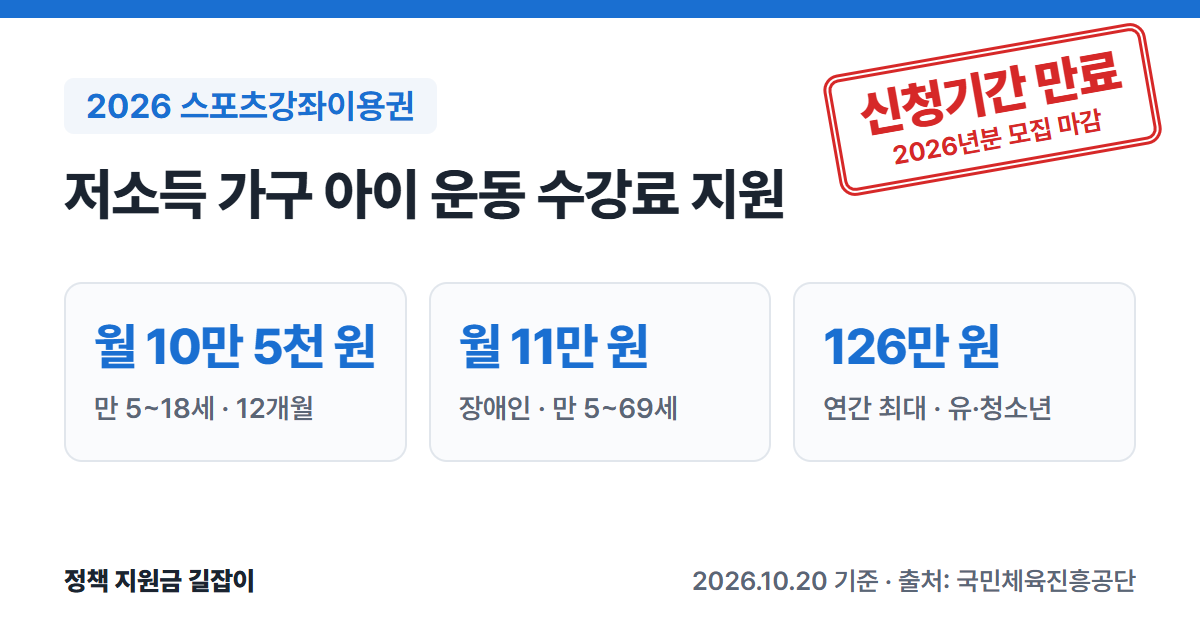
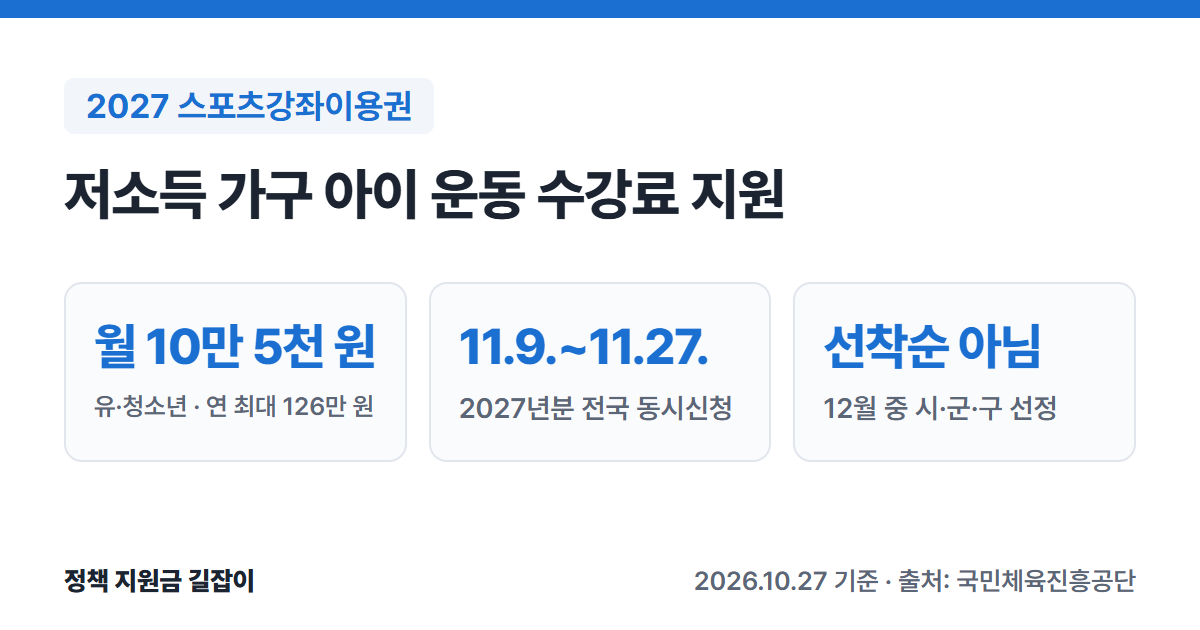
스포츠강좌이용권 글 2027년 전국 동시신청(11.9.~11.27.) 기준으로 갱신(장애인 이용권·중복수혜 제한·자동신청 안내, 독립 검토 반영), 만료 도장 제거, 쓰레드 원고 2개

diff --git a/_tools/card.html b/_tools/card.html
@@ -214,11 +214,10 @@ const cards = {
     foot: "2026.10.16 기준 · 출처: 주택도시기금"
   },
   "sports-voucher-2026": {
-    expired: "2026년분 모집",
-    label: "2026 스포츠강좌이용권",
+    label: "2027 스포츠강좌이용권",
     title: "저소득 가구 아이 운동 수강료 지원",
-    stats: [["월 10만 5천 원", "만 5~18세 · 12개월"], ["월 11만 원", "장애인 · 만 5~69세"], ["126만 원", "연간 최대 · 유·청소년"]],
-    foot: "2026.10.20 기준 · 출처: 국민체육진흥공단"
+    stats: [["월 10만 5천 원", "유·청소년 · 연 최대 126만 원"], ["11.9.~11.27.", "2027년분 전국 동시신청"], ["선착순 아님", "12월 중 시·군·구 선정"]],
+    foot: "2026.10.27 기준 · 출처: 국민체육진흥공단"
   },
   "youth-tomorrow-savings-2026": {
     expired: "2026년 모집",

diff --git a/_posts/2026-10-20-sports-voucher-2026.md b/_posts/2026-10-20-sports-voucher-2026.md
@@ -1,23 +1,23 @@
 ---
 layout: post
-title: "2026 스포츠강좌이용권 총정리: 저소득 가구 아이 운동 수강료 월 10만 5천 원 (대상·신청 시기·장애인 이용권)"
+title: "2027 스포츠강좌이용권 신청: 11월 9~27일, 저소득 가구 아이 운동 수강료 월 10만 5천 원 (대상·신청 방법·장애인 이용권)"
 date: 2026-10-20 23:20:00 +0900
-deadline: 2025-11-28
-deadline_note: "2026년분 모집"
+deadline: 2026-11-27
+deadline_note: "2027년분 전국 동시신청"
 topic: 생활비
 image: /assets/images/cards/sports-voucher-2026.png
 ---
 
 **스포츠강좌이용권**은 저소득 가구의 만 5~18세 아이가 운동 강좌를 배울 수 있도록 수강료를 **매달 최대 10만 5천 원** 지원하는 카드예요.
 장애인을 위한 **장애인스포츠강좌이용권**(월 최대 11만 원)도 따로 있어요.
-국민체육진흥공단 공식 안내를 바탕으로 대상, 금액, 신청 시기, 주의할 점을 정리했어요.
+**2027년 이용권은 2026년 11월 9일(월)~27일(금)에 전국 동시로 신청**받아요. 국민체육진흥공단 공식 안내를 바탕으로 대상, 금액, 신청 방법, 주의할 점을 정리했어요.
 
-![2026 스포츠강좌이용권 요약(신청기간 만료, 2026년분 모집 마감): 만 5~18세 저소득 가구 유·청소년 월 최대 10만 5천 원, 장애인 월 최대 11만 원, 연간 12개월, 유·청소년 연간 최대 126만 원](/assets/images/cards/sports-voucher-2026.png){: .summary-card}
+![2027 스포츠강좌이용권 요약: 만 5~18세 저소득 가구 유·청소년 월 최대 10만 5천 원(연 최대 126만 원), 2027년분 전국 동시신청 2026년 11월 9일~27일, 선착순 아님, 12월 중 시·군·구 선정](/assets/images/cards/sports-voucher-2026.png){: .summary-card}
 
 > 💡 **핵심 요약**
-> - **만 5~18세** 수급자·차상위·한부모 가구 아이에게 운동 수강료를 **월 10만 5천 원**까지, **1년 12개월** 지원해요(최대 126만 원). (출처①②)
-> - 장애인은 **만 5~69세**이면 **월 11만 원**까지 지원받아요(최대 132만 원). (출처②)
-> - 2026년 이용권은 **2025년 11월 10~28일**에 전국 동시로 신청받았어요. (출처②) 공단은 다음 해 신청 일정을 **전년도 10월 말경** 홈페이지에서 확인하라고 안내해요. (출처①)
+> - **만 5~18세** 수급자·차상위·한부모 가구 아이에게 운동 수강료를 **월 10만 5천 원**까지, **1년 12개월** 지원해요(최대 126만 원). 2027년에도 같아요. (출처①②⑤)
+> - **2027년 이용권 신청**: **2026년 11월 9일(월)~11월 27일(금) 23:59**, 선착순이 아니에요. (출처⑤)
+> - 장애인은 **만 5~69세**이면 **월 11만 원**까지 지원받아요(최대 132만 원). 신청 기간은 같아요. (출처⑥)
 
 > **출처 표시 방법**: 본문의 (출처①) 같은 표시는 글 끝 출처 목록의 번호와 같아요.
 
@@ -38,9 +38,9 @@ image: /assets/images/cards/sports-voucher-2026.png
 | 지원 금액 | 월 **10만 5천 원** · 월 **11만 원** |
 | 1년 최대 | **126만 원** (12개월) · **132만 원** (12개월) |
 | 형태 | 전용 체크카드 (신한카드) |
-| 신청 | 매년 전국 동시 신청 (2026년분: 2025.11.10.~11.28.) |
+| 신청 | 매년 전국 동시 신청 (2027년분: **2026.11.9.~11.27.**) |
 
-(출처①②③)
+(출처①②③⑤⑥)
 
 ---
 
@@ -48,18 +48,37 @@ image: /assets/images/cards/sports-voucher-2026.png
 
 ### 스포츠강좌이용권 (유·청소년)
 
-**만 5~18세**(2026년 이용권 기준 2008년 1월 1일~2021년 12월 31일 출생)이면서 아래 중 하나에 해당하면 돼요. (출처②)
+**만 5~18세**(2027년 이용권 기준 **2009년 1월 1일~2022년 12월 31일** 출생)이면서 아래 중 하나에 해당하면 돼요. (출처⑤)
 
 - 기초생활보장 **생계·의료·주거·교육급여 수급 가구**
 - **차상위계층**(자활근로, 장애, 본인부담경감, 차상위 확인서 발급)
 - 한부모가족지원법에 따른 **한부모가족**
 - 학교·성·가정 폭력 **피해자** 중 경찰청 추천을 받은 사람
 
-(출처①②)
+(출처①⑤)
 
 ### 장애인스포츠강좌이용권
 
-**만 5~69세**(2026년 이용권 기준 1957년 1월 1일~2021년 12월 31일 출생)의 **등록 장애인 본인**이 대상이에요. 저소득층을 우선 선정해요. (출처②)
+**만 5~69세**(2027년 이용권 기준 **1958년 1월 1일~2022년 12월 31일** 출생)의 **등록 장애인 본인**이 대상이에요. (출처⑥)
+
+선정은 시·군·구청에서 아래 순위로 해요. 저소득층이 아니어도 4·5순위로 신청할 수 있어요. (출처⑥)
+
+| 순위 | 기준 |
+|---|---|
+| 1순위 | 5~18세 수급자·차상위·법정 한부모 |
+| 2순위 | 19세 이상 수급자 |
+| 3순위 | 19세 이상 차상위·법정 한부모 |
+| 4순위 | 5~18세 비저소득층 |
+| 5순위 | 19세 이상 비저소득층 |
+
+### 함께 받을 수 없는 사업
+
+유·청소년 스포츠강좌이용권은 아래 사업과 **같은 해에 함께 받을 수 없어요.** 함께 받는 사실이 확인되면 하나만 골라야 하고, 이용권이 자동으로 중단되거나 지자체에서 연락이 갈 수 있어요. (출처⑦)
+
+- 스포츠꿈나무 특기장려금(옛 저소득층 체육인재 장학지원 사업)
+- 지역사회서비스 투자사업 중 (비만)아동 건강관리 사업
+
+장애인스포츠강좌이용권의 중복 제한은 장애인 이용권 홈페이지 공지를 확인하세요.
 
 ---
 
@@ -70,12 +89,13 @@ image: /assets/images/cards/sports-voucher-2026.png
 | 스포츠강좌이용권 | **10만 5천 원** · **126만 원** |
 | 장애인스포츠강좌이용권 | **11만 원** · **132만 원** |
 
-(출처②③, 2026년 기준)
+(출처②③⑤⑥)
 
 - 매달 지원 금액 **안에서** 스포츠 강좌 **수강료**를 결제해요. (출처①②)
-- 2026년 이용권은 **2026년 12월 10일까지** 결제할 수 있어요. (출처②)
+- 2026년 이용권은 **2026년 12월 10일까지**, 2027년 이용권은 **2027년 1월~12월 10일**에 결제할 수 있어요. (출처②⑤⑥)
+- 2027년 공지에는 **예산이 일찍 떨어지면 지원이 중단되거나 월 한도가 줄어들 수 있다**고 적혀 있어요. (출처⑤)
 
-> ⚠ **3개월 연속 사용하지 않으면** 지원이 자동으로 중단되고, 다음 해 선정 순위가 조정될 수 있어요. (출처②)
+> ⚠ **3개월 연속 사용하지 않으면** 지원이 자동으로 중단되고, 다음 해 선정 순위가 조정될 수 있어요. (출처②⑤)
 
 ---
 
@@ -91,7 +111,7 @@ image: /assets/images/cards/sports-voucher-2026.png
 | 3순위 | 누적 이용 **30개월 이상** + 기초생활수급자 |
 | 4순위 | 누적 이용 30개월 이상 + 차상위계층·법정 한부모 |
 
-(출처①)
+(출처①⑤, 누적 이용 기간은 최근 4년간 누적 결제 횟수 기준)
 
 처음 신청하거나 이용 기간이 짧은 아이가 먼저 뽑혀요. (출처①)
 
@@ -102,18 +122,19 @@ image: /assets/images/cards/sports-voucher-2026.png
 ### 신청 시기
 
 - 매년 **전국 동시 신청** 기간에 **다음 해** 이용권을 신청해요. **선착순이 아니에요.** (출처①②)
-- 2026년 이용권은 **2025년 11월 10일(월)~11월 28일(금) 23:59**에 신청받았고, 선정 기간은 **12월 중**이었어요. (출처②)
-- 다음 해 신청 일정은 **전년도 10월 말경** 이용권 홈페이지를 참고하라고 안내하고 있어요. (출처①)
+- **2027년 이용권**은 **2026년 11월 9일(월)~11월 27일(금) 23:59**에 신청받아요. 선정은 **12월 중** 각 시·군·구청에서 하고, 선정되면 문자로 알려 줘요. (출처⑤)
+- 참고로 2026년 이용권은 2025년 11월 10일~28일에 신청받았어요. (출처②)
 - 전국 동시 신청 뒤에도 시·군·구별로 자리가 남으면 **추가 신청**을 받기도 해요. (출처①)
 
-> 2026년 10월 26일 기준으로 2027년 이용권 **신청 기간 공지는 아직 없어요.** 공지가 나오면 이 글에 업데이트할게요.
-
-> ⚠ **지금 이용 중이라면 10월 31일까지 확인하세요.** 이용권 홈페이지에 **'자동신청 서비스'** 가 생겼어요. **2026년 10월 31일(토) 23:59까지** 동의하면 2027년 전국 동시신청 기간에 신청이 자동으로 진행돼요. 동의해도 이용권이 자동으로 갱신되는 것은 아니고 신청만 자동으로 돼요. 기간 안에 동의하지 않으면 2027년 전국 동시신청 기간에 따로 신청해야 해요. (출처④)
+> ⚠ **자동신청 동의는 10월 31일(토) 23:59까지예요.** 이용권 홈페이지에서 로그인 → 마이페이지 → 회원정보수정 → '자동신청 동의'에 체크하면 2027년 전국 동시신청 기간에 신청이 자동으로 진행돼요. (출처④)
+> - 신청만 자동이고 **선정은 따로** 해요. 동의한 분도 신청 기간에 마이페이지 '강좌이용권 신청현황'에서 신청 완료를 확인하고, 12월 중 선정 결과를 꼭 확인하세요. (출처④⑤)
+> - **외국인, 폴케어 대상자 등 서면 신청 대상자**는 자동신청에서 빠져요. 시·군·구청이나 주민센터에 직접 신청해야 해요. (출처④⑤)
+> - 기간 안에 동의하지 않았다면 11월 9일~27일에 따로 신청하면 돼요. (출처④)
 
 ### 신청 방법
 
 1. **온라인**: 스포츠강좌이용권 홈페이지(svoucher.kspo.or.kr) → [개인회원] → [개인 이용권 신청] → 거주 지역 선택 → 신청 (장애인은 dvoucher.kspo.or.kr) (출처②)
-2. **방문**: 주민등록 주소지 **시·군·구청 또는 주민센터**에 신분증, 가족관계증명서 등을 가지고 가서 서면으로 신청 (출처②)
+2. **방문**: 주민등록 주소지 **시·군·구청 또는 주민센터**에 신분증, 가족관계증명서 등을 가지고 가서 서면으로 신청 (출처②⑤)
 
 ### 선정 뒤
 
@@ -126,7 +147,7 @@ image: /assets/images/cards/sports-voucher-2026.png
 ## 자주 묻는 질문
 
 **Q. 지금(10월) 신청할 수 있나요?**
-2026년 이용권의 전국 동시 신청은 2025년 11월에 끝났어요. 시·군·구별 **추가 신청**이 있을 수 있으니 이용권 홈페이지 공지를 확인하세요. 2027년 이용권 신청 일정도 홈페이지에서 확인하세요. (출처①)
+2027년 이용권은 **11월 9일부터 27일까지** 신청할 수 있고, 지금은 자동신청 동의(10월 31일까지)만 할 수 있어요. (출처④⑤) 올해(2026년) 이용권은 시·군·구별로 **추가 신청**을 받는 곳이 있을 수 있으니 이용권 홈페이지 공지를 확인하세요. (출처①)
 
 **Q. 남은 지원금은 다음 달로 넘어가나요?**
 매달 지원 금액 **범위 안에서** 수강료를 지원하고, 2026년 이용권은 12월 10일까지 결제할 수 있어요. (출처①②) 남은 금액이 다음 달로 넘어가는지는 공식 안내에서 확인하지 못했어요. 상담센터(1551-0078)에 확인하세요.
@@ -151,6 +172,9 @@ image: /assets/images/cards/sports-voucher-2026.png
 1. [스포츠강좌이용권 누리집 - 스포츠강좌이용권 안내 (국민체육진흥공단)](https://svoucher.kspo.or.kr/contents/voucherGuide.do) - 지원 대상·자격, 지원 내용, 신청 시기·방법, 선정 절차·순위, 카드 발급 (확인일: 2026-10-20)
 2. [국민체육진흥공단 K스포에듀 공지 - 2026년 스포츠강좌이용권 신청하세요!(11/10~11/28) (2025.11.7.)](https://edu.kspo.or.kr/cmmnty/notice/noticeView.do?nttId=3782) - 2026년 신청 기간, 대상 출생연도, 지원 금액·연간 최대, 결제 기한, 미사용 중단, 상담센터 (확인일: 2026-10-20)
 3. [국민체육진흥공단 - 스포츠강좌이용권 사업 안내](https://kspo.or.kr/kspo/main/contents.do?menuNo=200108) - 2026년 기준 월 최대 금액, 체크카드 형태, 이용 절차 (확인일: 2026-10-20)
-4. [스포츠강좌이용권 공지 - 스포츠강좌 이용권 자동 신청 서비스 도입 안내 (2026.8.31.)](https://svoucher.kspo.or.kr/svoucher/bbs/B0000051/view.do?menuNo=20&topMenuNo=5&nttId=64254) - 동의 기간 2026.10.31.(토) 23:59까지, 2027년 전국 동시신청 자동신청, 이용권 자동 갱신 아님 (확인일: 2026-10-26)
+4. [스포츠강좌이용권 공지 - 스포츠강좌 이용권 자동 신청 서비스 도입 안내 (2026.8.31.)](https://svoucher.kspo.or.kr/svoucher/bbs/B0000051/view.do?menuNo=20&topMenuNo=5&nttId=64254) - 동의 기간 2026.10.31.(토) 23:59까지, 동의 방법, 2027년 전국 동시신청 자동신청, 이용권 자동 갱신 아님, 선정 절차 별도, 서면신청 대상자 제외 (확인일: 2026-10-27)
+5. [스포츠강좌이용권 공지 - 2027 스포츠강좌이용권 전국 동시신청 안내(11/9~11/27) (2026.10.27.)](https://svoucher.kspo.or.kr/svoucher/bbs/B0000051/view.do?menuNo=20&topMenuNo=5&nttId=64394) - 신청 기간, 12월 중 시·군·구 선정, 자동신청은 자동선정 아님, 대상 출생연도, 월 10만 5천 원·최대 126만 원, 신청 방법, 선정 순위, 2027년 이용 기간, 예산 조기소진 시 중단·축소 가능, 1551-0078 (확인일: 2026-10-27)
+6. [장애인스포츠강좌이용권 공지 - 2027 장애인스포츠강좌이용권 전국 동시신청 안내(11/9~11/27) (2026.10.27.)](https://dvoucher.kspo.or.kr/dvoucher/bbs/B0000078/view.do?nttId=64395&menuNo=800018&topMenuNo=800017) - 신청 기간, 대상 출생연도·등록 장애인, 월 11만 원·최대 132만 원, 선정 순위 1~5, 서면신청 대상자 자동신청 제외, 이용 기간, 예산 조기소진 (확인일: 2026-10-27)
+7. [스포츠강좌이용권 공지 - 지역사회 투자 서비스 등 중복수혜 제한 안내 (2026.10.19.)](https://svoucher.kspo.or.kr/svoucher/bbs/B0000051/view.do?menuNo=20&topMenuNo=5&nttId=64352) - 스포츠꿈나무 특기장려금, (비만)아동 건강관리 사업 중복수혜 불가 (확인일: 2026-10-27)
 
-> 이 글은 **2026년 10월 20일** 기준이에요. 다음 해 신청 일정과 조건은 국민체육진흥공단 공지를 꼭 확인하세요.
+> 이 글은 **2026년 10월 27일** 기준이에요(2027년 신청 공지 반영). 다음 해 신청 일정과 조건은 국민체육진흥공단 공지를 꼭 확인하세요.
